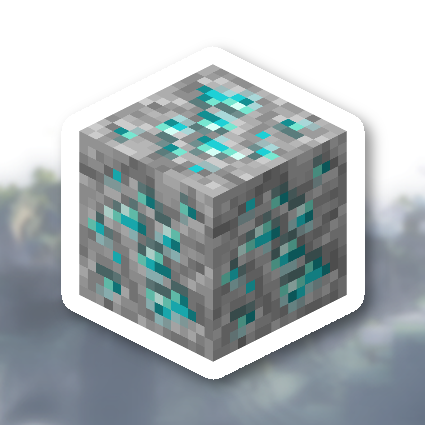
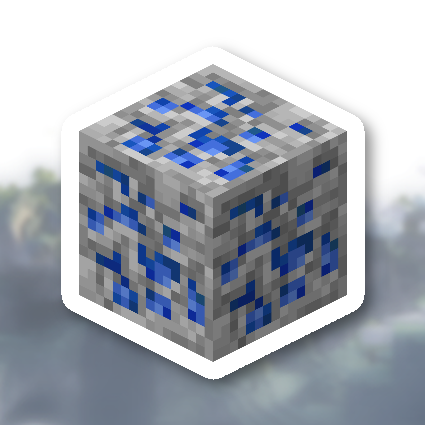
build: prep

Changed region(s): [[0.1835, 0.1529, 0.7953, 0.7647], [0.4894, 0.4588, 0.7953, 0.7953]]

diff --git a/docs/README.md b/docs/README.md
@@ -1,6 +1,19 @@
-# Example Mod
+# Overworld Ores
 
-TBA...
+The Overworld Ores addon implements new Holystone variants of ore blocks that correlate to vanilla and modded ores, and will naturally spawn in the Aether dimension with similar spawn rates and ranges to their Overworld counterparts. Modded ore variants will only generate if a respective mod with that ore is installed. This addon does not cover compatibility for every modded ore, but modpack creators can suggest additional ores they would like to be added.
+
+This addon is intended to help modpack makers who are looking to add certain ore blocks to the Aether without requiring the player to have to travel to the Overworld to mine for them, such as for Aether-only survival situations. Modpack creators can also configure all of the default features such as generation rates or recipe results however they desire using data packs.
+
+Currently supported compatibility includes:
+
+- Tin Ore; Thermal Foundation, Railcraft, Mekanism.
+- Lead Ore; Thermal Foundation, Railcraft, Mekanism, Embers, Immersive Engineering.
+- Silver Ore; Thermal Foundation, Railcraft, Embers, Immersive Engineering.
+- Nickel Ore; Thermal Foundation, Railcraft, Immersive Engineering.
+- Zinc Ore; Railcraft, Create.
+- Uranium Ore; Mekanism, Immersive Engineering.
+- Sulfur Ore; Thermal Foundation, Railcraft.
+- Create's ore crushing recipes.
 
 ## :heart: Support The Aether Team
 
@@ -20,22 +33,21 @@ TBA...
 
 If you enjoy our work, [please consider making a pledge](https://patreon.com/TheAetherTeam) today to help fund development. Every pledge goes directly into our development process and services, enabling us to continue making the Minecraft mods you know and love.
 
-You can also support Example Mod and The Aether Team by telling your friends, joining our Discord server, and sharing our progress and announcements on social media. Every bit helps!
+You can also support Overworld Ores and The Aether Team by telling your friends, joining our Discord server, and sharing our progress and announcements on social media. Every bit helps!
 
-If you're interested in sponsoring Example Mod or The Aether Team, please [contact Oz#1986 on the Aether Community Discord](https://discord.gg/aethermod).
+If you're interested in sponsoring Overworld Ores or The Aether Team, please [contact Oz#1986 on the Aether Community Discord](https://discord.gg/aethermod).
 
 ## :package: Download the latest releases
-[![Modloader: Forge](https://img.shields.io/badge/mod%20loader-forge-CC974D?style=flat-square)](https://files.minecraftforge.net/net/minecraftforge/forge/)
-[![Modrinth Downloads](https://img.shields.io/modrinth/dt/examplemod?color=00AF5C&logo=modrinth)](https://modrinth.com/mod/examplemod)
-[![Modrinth Version](https://img.shields.io/modrinth/game-versions/examplemod?color=00AF5C&label=latest&logo=modrinth&last=true)](https://modrinth.com/mod/examplemod)
-[![CurseForge Downloads](http://cf.way2muchnoise.eu/examplemod.svg)](https://www.curseforge.com/minecraft/mc-mods/examplemod)
-[![CurseForge Version](http://cf.way2muchnoise.eu/versions/examplemod_latest.svg)](https://www.curseforge.com/minecraft/mc-mods/examplemod)
-[![CircleCI](https://circleci.com/gh/The-Aether-Team/Example-Mod/tree/1.20.1-develop.svg?style=shield)](https://app.circleci.com/pipelines/github/The-Aether-Team/Example-mod?branch=1.20.1-develop)
+[![Modrinth Downloads](https://img.shields.io/modrinth/dt/Nipqb0qe?color=00AF5C&logo=modrinth)](https://modrinth.com/mod/aether-overworld-ores)
+[![Modrinth Version](https://img.shields.io/modrinth/game-versions/Nipqb0qe?color=00AF5C&label=latest&logo=modrinth&last=true)](https://modrinth.com/mod/aether-overworld-ores)
+[![CurseForge Downloads](http://cf.way2muchnoise.eu/1237218.svg)](https://www.curseforge.com/minecraft/mc-mods/aether-overworld-ores)
+[![CurseForge Version](http://cf.way2muchnoise.eu/versions/1237218_latest.svg)](https://www.curseforge.com/minecraft/mc-mods/aether-overworld-ores)
+[![CircleCI](https://circleci.com/gh/The-Aether-Team/Overworld-Ores/tree/1.21.1-develop.svg?style=shield)](https://app.circleci.com/pipelines/github/The-Aether-Team/Overworld-Ores?branch=1.21.1-develop)
 ### Release builds
-Example Mod has relatively stable beta builds available for release for 1.20.1 on [Modrinth](https://modrinth.com/mod/examplemod) and [CurseForge](https://www.curseforge.com/minecraft/mc-mods/examplemod). A full 1.0.0 release will be coming soon.
+Overworld Ores has stable release builds available on [Modrinth](https://modrinth.com/mod/aether-overworld-ores) and [CurseForge](https://www.curseforge.com/minecraft/mc-mods/aether-overworld-ores).
 
 ### Bleeding edge builds
-If you’re feeling a bit more adventurous or wish to help test the in-development versions, we provide **bleeding edge builds** which are produced on [CircleCI](https://app.circleci.com/pipelines/github/The-Aether-Team/Example-Mod). These builds are created for every new commit and contain the latest available code. We do not recommend users treat these builds as releases, as they are unfinished and may contain serious issues. If you wish to download these builds, check out [this guide](https://github.com/The-Aether-Team/Example-Mod/wiki/CircleCI-Guide).
+If you’re feeling a bit more adventurous or wish to help test the in-development versions, we provide **bleeding edge builds** which are produced on [CircleCI](https://app.circleci.com/pipelines/github/The-Aether-Team/Overworld-Ores). These builds are created for every new commit and contain the latest available code. We do not recommend users treat these builds as releases, as they are unfinished and may contain serious issues. If you wish to download these builds, check out [this guide](https://github.com/The-Aether-Team/Overworld-Ores/wiki/CircleCI-Guide).
 
 ### Packages
 To install this mod through GitHub Packages in Gradle for development, you will need the [Gradle Github Packages Plugin](https://github.com/0ffz/gpr-for-gradle). To use it, make sure you have access to the Gradle plugins maven and the plugin as a buildscript dependency:
@@ -69,13 +81,13 @@ Then you need to specify the package you want to use in your repository:
 ```
 repositories {
   ...
-  maven githubPackage.invoke("The-Aether-Team/Example-Mod")
+  maven githubPackage.invoke("The-Aether-Team/Overworld-Ores")
 }
 ```
 
 </details>
 
-Then load it through your dependencies, with `project.examplemod_version` specified in the `gradle.properties`:
+Then load it through your dependencies, with `project.overworld_ores_version` specified in the `gradle.properties`:
 
 <details>
 <summary> Dependencies Code</summary>
@@ -83,7 +95,7 @@ Then load it through your dependencies, with `project.examplemod_version` specif
 ```
 dependencies {
   ...
-  implementation fg.deobf("com.example.examplemod:examplemod:${project.examplemod_version}")
+  implementation fg.deobf("com.aetherteam.aether_overworld_ores:aether_overworld_ores:${project.overworld_ores_version}")
   ...
 }
 ```
@@ -91,40 +103,19 @@ dependencies {
 </details>
 
 ## :bug: Report bugs or other issues
-If you're running into bugs or other problems, feel free to open an issue on our [issue tracker](https://github.com/The-Aether-Team/Example-Mod/issues). When doing so, make sure to use one of the provided templates and fill out all the requested information. Make sure to keep your issue's description clear and concise. Your issue's title should also be easy to digest, giving our developers and reporters a good idea of what's wrong without including too many details. Failure to follow any of the above may result in your issue being closed.
+If you're running into bugs or other problems, feel free to open an issue on our [issue tracker](https://github.com/The-Aether-Team/Overworld-Ores/issues). When doing so, make sure to use one of the provided templates and fill out all the requested information. Make sure to keep your issue's description clear and concise. Your issue's title should also be easy to digest, giving our developers and reporters a good idea of what's wrong without including too many details. Failure to follow any of the above may result in your issue being closed.
 
 ## :wrench: Contribute to the project
-Looking to contribute to the project? We ask that you read over our [Contributor's Guide](https://github.com/The-Aether-Team/Example-Mod/blob/1.20.1-develop/docs/CONTRIBUTING.md) for more details as well as our [Contributor License Agreement (CLA)](https://github.com/The-Aether-Team/Example-Mod/blob/1.20.1-develop/docs/AGREEMENT.md) before getting started.
+Looking to contribute to the project? We ask that you read over our [Contributor's Guide](https://github.com/The-Aether-Team/Overworld-Ores/blob/1.21.1-develop/docs/CONTRIBUTING.md) for more details as well as our [Contributor License Agreement (CLA)](https://github.com/The-Aether-Team/Overworld-Ores/blob/1.21.1-develop/docs/AGREEMENT.md) before getting started.
 
-Not sure what to help with? Take a look at our issue tracker for some ideas! [Here's a quick link](https://github.com/The-Aether-Team/Example-Mod/labels/status%2Fhelp-wanted) which shows all the currently open issues that we'd love some help on.
+Not sure what to help with? Take a look at our issue tracker for some ideas! [Here's a quick link](https://github.com/The-Aether-Team/Overworld-Ores/labels/status%2Fhelp-wanted) which shows all the currently open issues that we'd love some help on.
 
 ## :scroll: License information
 [![Asset license (Unlicensed)](https://img.shields.io/badge/assets%20license-All%20Rights%20Reserved-red.svg?style=flat-square)](https://en.wikipedia.org/wiki/All_rights_reserved)
-[![Code license (LGPL v3.0)](https://img.shields.io/badge/code%20license-LGPL%20v3.0-green.svg?style=flat-square)](https://github.com/The-Aether-Team/Example-Mod/blob/1.20.1-develop/LICENSE.txt)
+[![Code license (LGPL v3.0)](https://img.shields.io/badge/code%20license-LGPL%20v3.0-green.svg?style=flat-square)](https://github.com/The-Aether-Team/Overworld-Ores/blob/1.21.1-develop/LICENSE.txt)
 
 If you're wanting to create a gameplay video/review, extension or addon, parody, or any other fan work of your own for Example Mod, go for it! We love seeing the content our community creates, and we hope to make it as welcoming as possible for everyone. We ask however that you please don't advertise using our brand (our specific logo assets, team name, official social media posts).
 
 If you are thinking about using Example Mod's code or assets, please note our licensing. **All assets of Example Mod are unlicensed and all rights are reserved to them by The Aether Team and their respective authors.** The source code of Example Mod is under the LGPL v3.0 license.
 
 If you have a reason that you wish to use our brand or any unlicensed material, please [get in contact with Oz#1986 on the Aether Community Discord](https://discord.gg/aethermod) for details.
-
-## :star2: Special mentions
-### :speech_balloon: Translations
-[![Crowdin translations](https://img.shields.io/badge/crowdin-examplemod-blue?color=55BC5C&label=crowdin&logo=crowdin&style=flat-square)]()
-
-Example Mod is available in these languages thanks to the following contributors:
-
-| Language                    | Locale  | Translators                                                                                                |
-|-----------------------------|---------|------------------------------------------------------------------------------------------------------------|
-|                       |  |                                                                                                   |
-
-If you are interested in contributing translations to Example Mod, check out our [Crowdin]() and our [Discord](https://discord.gg/aethermod)! If you have contributed translations in the past and your name is missing from the above list, please contact us.
-
-### :hammer: Contributions
-All of our code contribution credits can be found [here](https://github.com/The-Aether-Team/Example-Mod/blob/1.20.1-develop/docs/CREDITS.txt). If you contributed to the project and do not see your name, please contact us.
-
-### :file_folder: Dependencies
-Example Mod would not be possible without the features provided by the APIs and libraries it implements. Thanks goes to:
-| Library | Information |
-| ------- | ----------- |
-|  |  |

diff --git a/docs/CHANGELOG.md b/docs/CHANGELOG.md
@@ -1,8 +1,5 @@
-# Example Mod - Forge - 1.20.1-1.0.0
+# Overworld Ores - NeoForge - 1.21.1-1.0.0
 
-Additions
-
-Changes
-
-Fixes
-
+- Add Holystone Coal Ore, Holystone Iron Ore, Holystone Copper Ore, Holystone Gold Ore, Holystone Redstone Ore, Holystone Lapis Ore, Holystone Emerald Ore, Holystone Diamond Ore, Holystone Tin Ore, Holystone Lead Ore, Holystone Silver Ore, Holystone Nickel Ore, Holystone Zinc Ore, Holystone Uranium Ore, Holystone Sulfur Ore.
+- Add smelting, blasting, and crushing (Create) recipes.
+- Add ore generation features for all ore blocks.
